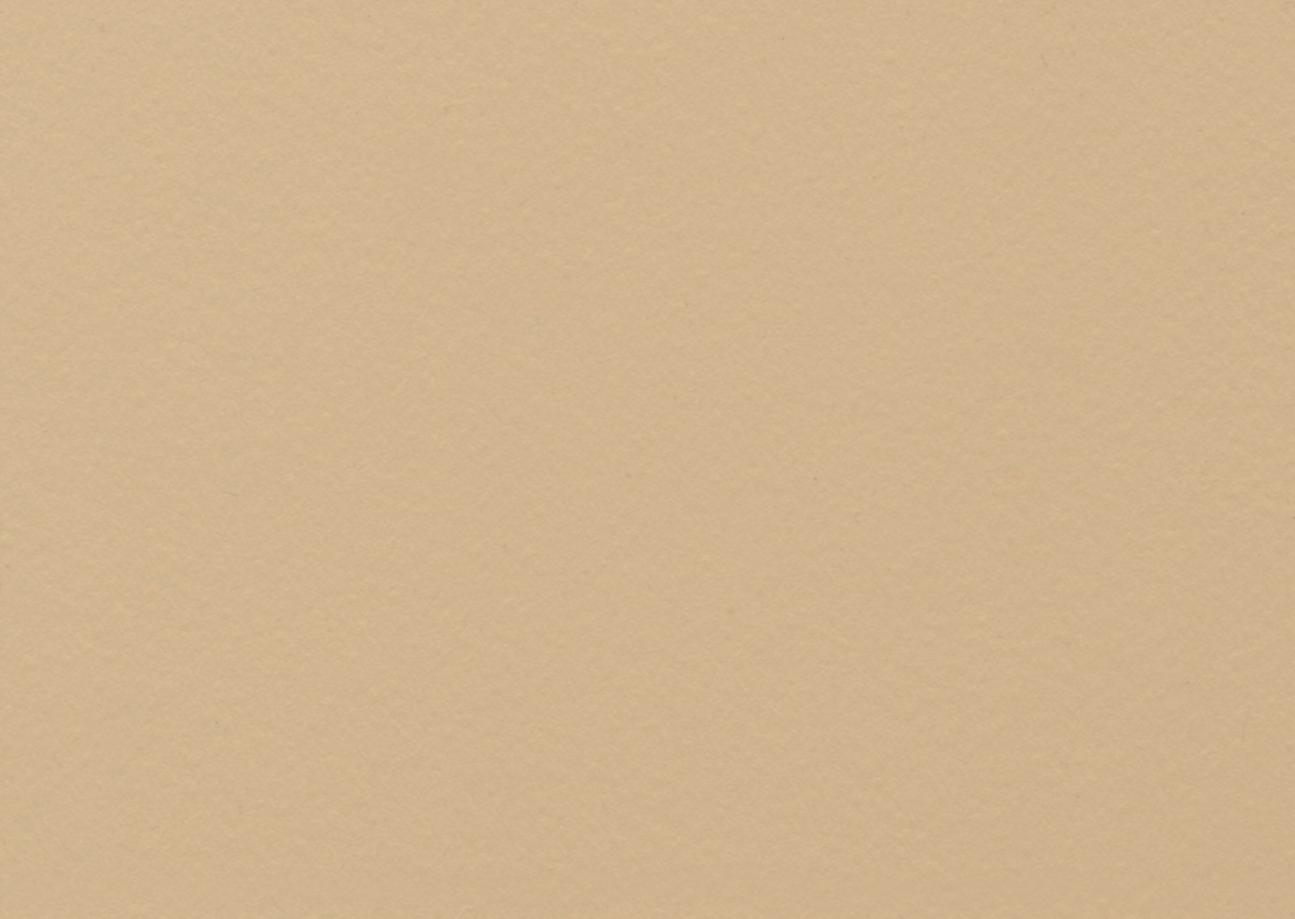
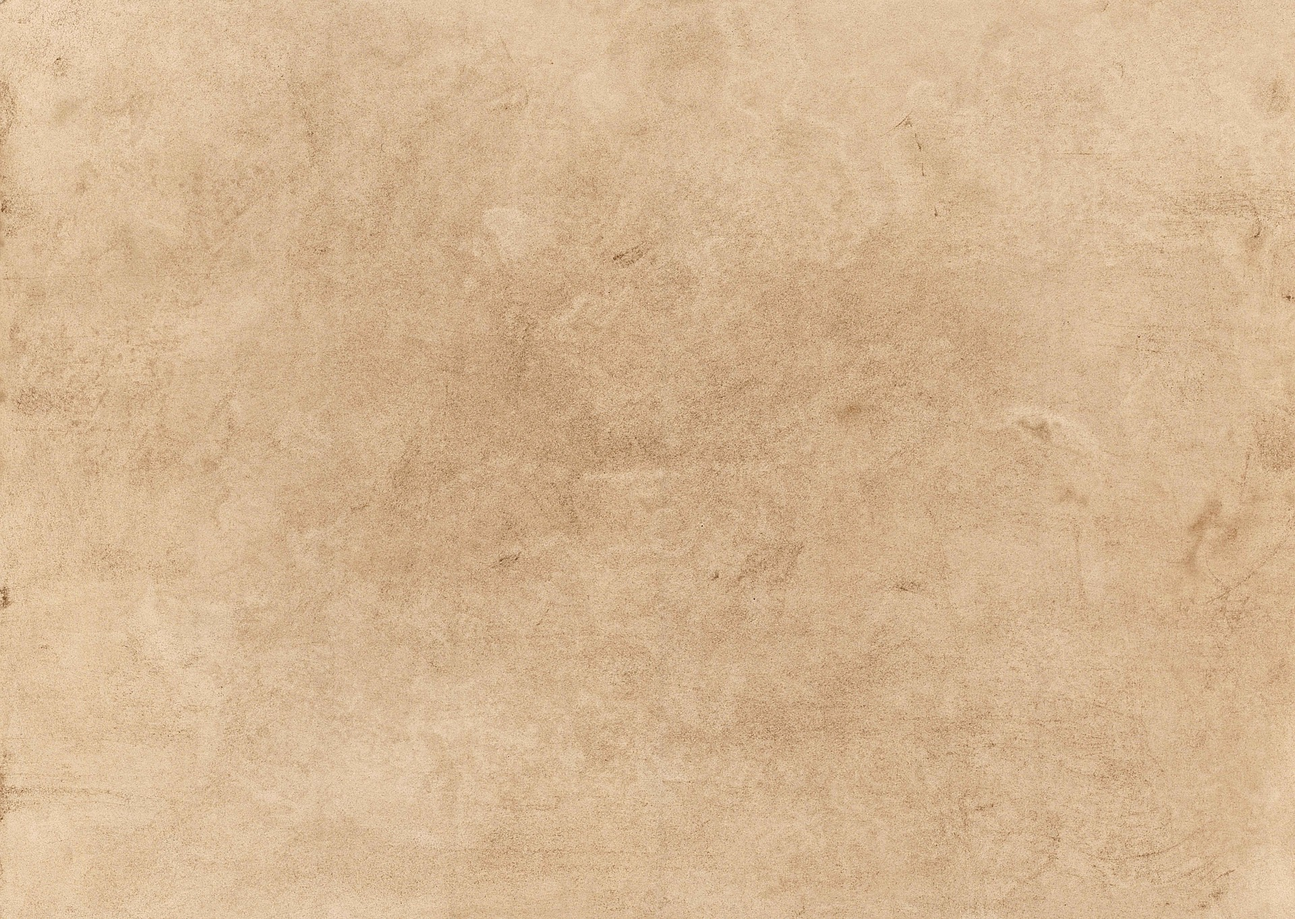
Restore original classic paper with explicit private-use licensing notice

diff --git a/create-wedding-invitation/assets/classic-template/materials.html b/create-wedding-invitation/assets/classic-template/materials.html
@@ -1,1 +1,1 @@
-<!doctype html><html lang="zh-CN"><meta charset="utf-8"><meta name="viewport" content="width=device-width,initial-scale=1"><meta name="robots" content="noindex,nofollow"><title>音乐与素材说明</title><style>body{margin:0;background:#f7efdf;color:#49372c;font:16px/1.8 system-ui,sans-serif}main{max-width:680px;padding:32px 24px;margin:auto}h1{font-size:26px}h2{font-size:20px;margin-top:28px}a{color:#8b3a3a;overflow-wrap:anywhere}small{display:block}pre{white-space:pre-wrap;font:13px/1.7 system-ui}button{font:inherit}</style><main><h1>音乐与素材说明</h1><p>以下是模板默认素材的来源。若请柬已关闭或更换音乐，默认录音可能未使用；替换素材需另行确认授权。</p><h2>默认音乐</h2><p>“Canon in D Major” — Kevin MacLeod（incompetech.com），ISRC USUAN1100301。<br>Licensed under Creative Commons: By Attribution 4.0 License.</p><p><a href="https://incompetech.com/music/royalty-free/index.html?isrc=USUAN1100301">作者原站与曲目</a> · <a href="https://creativecommons.org/licenses/by/4.0/">CC BY 4.0 许可</a></p><p>已移除 ID3 标签与内嵌封面，转为适合手机加载的 96 kbps MP3，并重命名文件。使用、修改或再分发时应保留作者署名、来源及许可链接，修改后说明改动；在符合许可的情况下允许商业使用。</p><h2>纸张与装饰</h2><p><a href="https://ambientcg.com/view?id=Paper001">Paper001</a>、<a href="https://ambientcg.com/view?id=Paper002">Paper002</a> 来自 ambientCG / Lennart Demes，采用 <a href="https://creativecommons.org/publicdomain/zero/1.0/">CC0 1.0</a>。模板对纸纹作暖色叠加和组合处理。信封分享图、玫瑰封蜡线稿、波纹与照片占位由本项目重新绘制，采用 CC0 1.0；其中信封使用上述 CC0 纸纹。</p><p><a href="./assets/NOTICES.txt">完整素材记录</a> · <a href="./assets/licenses/CC-BY-4.0.txt">音乐许可全文</a> · <a href="./assets/licenses/CC0-1.0.txt">CC0 全文</a></p><small>本说明不替使用者取得其照片、个人文案或替换音乐的授权。</small><p><a href="./index.html">返回请柬</a></p></main></html>
+<!doctype html><html lang="zh-CN"><meta charset="utf-8"><meta name="viewport" content="width=device-width,initial-scale=1"><meta name="robots" content="noindex,nofollow"><title>音乐与素材说明</title><style>body{margin:0;background:#f7efdf;color:#49372c;font:16px/1.8 system-ui,sans-serif}main{max-width:680px;padding:32px 24px;margin:auto}h1{font-size:26px}h2{font-size:20px;margin-top:28px}a{color:#8b3a3a;overflow-wrap:anywhere}small{display:block}pre{white-space:pre-wrap;font:13px/1.7 system-ui}button{font:inherit}</style><main><h1>音乐与素材说明</h1><p>以下是模板默认素材的来源。若请柬已关闭或更换音乐，默认录音可能未使用；替换素材需另行确认授权。</p><h2>默认音乐</h2><p>“Canon in D Major” — Kevin MacLeod（incompetech.com），ISRC USUAN1100301。<br>Licensed under Creative Commons: By Attribution 4.0 License.</p><p><a href="https://incompetech.com/music/royalty-free/index.html?isrc=USUAN1100301">作者原站与曲目</a> · <a href="https://creativecommons.org/licenses/by/4.0/">CC BY 4.0 许可</a></p><p>已移除 ID3 标签与内嵌封面，转为适合手机加载的 96 kbps MP3，并重命名文件。使用、修改或再分发时应保留作者署名、来源及许可链接，修改后说明改动；在符合许可的情况下允许商业使用。</p><h2>当前经典版纸纹：授权待确认</h2><p>本版本按用户要求恢复原项目纸纹，不属于 CC0 素材。再分发授权尚未确认，请保持私有；以下 CC0 纸纹是保留的替代方案。</p><h2>替代纸纹与其他装饰</h2><p><a href="https://ambientcg.com/view?id=Paper001">Paper001</a>、<a href="https://ambientcg.com/view?id=Paper002">Paper002</a> 来自 ambientCG / Lennart Demes，采用 <a href="https://creativecommons.org/publicdomain/zero/1.0/">CC0 1.0</a>。模板对纸纹作暖色叠加和组合处理。信封分享图、玫瑰封蜡线稿、波纹与照片占位由本项目重新绘制，采用 CC0 1.0；其中信封使用上述 CC0 纸纹。</p><p><a href="./assets/NOTICES.txt">完整素材记录</a> · <a href="./assets/licenses/CC-BY-4.0.txt">音乐许可全文</a> · <a href="./assets/licenses/CC0-1.0.txt">CC0 全文</a></p><small>本说明不替使用者取得其照片、个人文案或替换音乐的授权。</small><p><a href="./index.html">返回请柬</a></p></main></html>

diff --git a/tools/verify.py b/tools/verify.py
@@ -154,7 +154,10 @@ class ReleaseChecks(unittest.TestCase):
         for skill, template in ((CLASSIC, "classic-template"), (WITNESS, "witness-template")):
             assets = skill / "assets" / template / "assets"
             for name in ("paper-warm.jpg", "canon-in-d-major.mp3"):
-                self.assertEqual(hashlib.sha256((assets / name).read_bytes()).hexdigest(), hashes[name])
[1 lines of base64/hex data omitted]
+                self.assertEqual(hashlib.sha256((assets / name).read_bytes()).hexdigest(), expected)
+            if skill == CLASSIC:
+                self.assertIn("NOT covered by the CC0", (assets / "PAPER_OVERRIDE.txt").read_text())
             for retired in ("classic-bgm.mp3", "vintage-paper-bg.jpg", "背景1.jpg", "water-ripple-bg.png"):
                 self.assertFalse((assets / retired).exists(), retired)
 

diff --git a/create-wedding-invitation/scripts/validate_invitation.py b/create-wedding-invitation/scripts/validate_invitation.py
@@ -103,6 +103,8 @@ def main() -> int:
     if not media.get("share") and not (media.get("ending") or media.get("cover")):
         warnings.append("share image is missing; select an existing cover or ending photo")
     html = (root / "index.html").read_text(encoding="utf-8")
+    if (root / "assets/PAPER_OVERRIDE.txt").exists():
+        warnings.append("original classic paper restored; redistribution permission is unverified; keep private")
     if 'href="./materials.html"' not in html:
         errors.append("missing accessible music/material attribution link")
     notices = (root / "assets/NOTICES.txt").read_text(encoding="utf-8")

diff --git a/create-wedding-invitation/scripts/package_invitation.py b/create-wedding-invitation/scripts/package_invitation.py
@@ -17,7 +17,7 @@ RUNTIME_FILES = {
     "styles.css", "print.css", "composition.css", "gallery-player.css",
     "location-card.css", "mobile-pages.css", "music-control.css",
     "theme-palette.css", "theme-presets.css",
-    "assets/placeholder.svg", "assets/paper-warm.jpg", "materials.html",
+    "assets/placeholder.svg", "assets/paper-warm.jpg", "assets/PAPER_OVERRIDE.txt", "materials.html",
     "assets/NOTICES.txt", "assets/licenses/CC-BY-4.0.txt", "assets/licenses/CC0-1.0.txt",
 }
 IMAGE_SUFFIXES = {".jpg", ".jpeg", ".png", ".webp", ".avif", ".gif"}

diff --git a/ASSET_LICENSES.md b/ASSET_LICENSES.md
@@ -1,10 +1,11 @@
 # 素材许可与替换记录
 
-当前工作树中的默认媒体已完成替换：纸纹为 CC0，音乐为 CC BY 4.0，新绘制的基础装饰为 CC0。各 skill 自带完整素材说明和许可文本，可独立安装，不依赖仓库根目录。代码许可状态另见 [LICENSE.md](LICENSE.md)。
+经典版现按用户要求恢复原项目纸纹，其再分发授权仍待确认，不属于 CC0，须保持私有。见证者纸纹仍为 CC0，音乐为 CC BY 4.0，新绘制的基础装饰为 CC0。各 skill 自带说明和许可，代码许可状态另见 [LICENSE.md](LICENSE.md)。
 
 | 素材 | 当前来源与许可 | 改动及再分发要求 |
 | --- | --- | --- |
-| 两版 `assets/paper-warm.jpg` | ambientCG / Lennart Demes 的 Paper001、Paper002；CC0 1.0 | 用 CSS 混合色图并调为暖纸色；允许免费修改、商用和再分发，不强制署名 |
+| 经典版 `assets/paper-warm.jpg` | 恢复的原经典项目纸纹；再分发授权待确认 | 非 CC0，SHA-256 及例外见 assets/PAPER_OVERRIDE.txt，保持私有 |
+| 见证者 `assets/paper-warm.jpg` 与仓库替代纸纹 | ambientCG / Lennart Demes 的 Paper001、Paper002；CC0 1.0 | CSS 混合色图并调为暖纸色；允许免费修改、商用和再分发，不强制署名 |
 | 两版 `assets/canon-in-d-major.mp3` | Kevin MacLeod 的 Canon in D Major，ISRC USUAN1100301；CC BY 4.0 | 移除 ID3 与内嵌封面，转为适合手机加载的 96 kbps MP3；再分发时保留作者、来源、许可及修改说明 |
 | 见证者 `assets/og-witness-letter.png` | 项目重新绘制的信封、玫瑰线稿、封蜡，加上述 CC0 纸纹 | 新几何绘图采用 CC0 1.0；由 tools/build-assets.mjs 重建 |
 | 两版 `assets/placeholder.svg` | 项目重新绘制的基本几何照片占位 | CC0 1.0；不是实际人物照片 |
@@ -21,7 +22,7 @@
 
 ## 文件与构建
 
-来源下载地址、原始录音校验值和处理命令见 [asset-sources/README.md](asset-sources/README.md)。当前文件 SHA-256 见 [asset-sources/SHA256.json](asset-sources/SHA256.json)。音乐移除了标签与嵌入封面，整曲转为 96 kbps MP3，未截短乐曲。纸纹及信封以浏览器渲染的 CSS／SVG 重建，未沿用旧图片中的像素。
+来源下载地址、原始录音校验值和处理命令见 [asset-sources/README.md](asset-sources/README.md)。可再分发文件的 SHA-256 见 [asset-sources/SHA256.json](asset-sources/SHA256.json)，恢复的经典纸纹校验值另见 assets/PAPER_OVERRIDE.txt。音乐转为 96 kbps MP3，未截短乐曲。见证者纸纹及信封由 CSS／SVG 重建；经典版现使用原项目纸纹。
 
 生成网站含“素材说明”入口，指向 materials.html；发布包必须包含 assets/NOTICES.txt 和 assets/licenses/ 下的许可全文。校验和打包脚本会检查这些文件。替换音乐后，替换曲目的授权与署名需另行处理，默认音乐的许可不能替代它。
 

diff --git a/create-wedding-invitation/SKILL.md b/create-wedding-invitation/SKILL.md
@@ -37,7 +37,7 @@ Create a private, mobile-first static wedding invitation from structured user in
 - Preserve the latest user-corrected spelling of names and banquet rooms everywhere. Ask “请柬上想把谁的名字放在前面？” when display order is unconfirmed; never default to groom-first or bride-first. An explicit user choice takes priority and remains unchanged on subsequent edits. Use `couple.brideFirst` for display order, without swapping identities; check cover, information card, signature, page title and sharing text.
 - Before delivery, follow [references/mobile-quality.md](references/mobile-quality.md) for one-screen layouts, whole-page typography and readable closing signatures, balanced whitespace, gallery placeholders, verified location cards and refresh checks.
 - Reuse the bundled four-page composition layer as the default visual balance; adapt it to content rather than rebuilding each page's spacing independently.
-- Use the warm paper texture for the classic ivory background. Do not add concentric ripples or ripple animations to any classic theme unless the user explicitly requests them.
+- Use the restored original paper texture for classic backgrounds and keep ripples disabled. Its redistribution permission is unverified: preserve assets/PAPER_OVERRIDE.txt and the exception in materials.html/NOTICES.txt; do not describe this background as CC0 or publish it as an openly licensed asset. The licensed CC0 alternative remains in the repository sources.
 - For a single-image invitation containing attendance details and one photo, use the `poster` export in [references/exporting.md](references/exporting.md). Inspect the exported image and display it inline in the response; a cover screenshot alone is not a complete information poster.
 
 - For arbitrary full-page color requests, use the complete palette fields in [references/theme-presets.md](references/theme-presets.md). Use `preset: custom` and regenerate from the source JSON; changing only `accent` on a legacy preset does not recolor its fixed surfaces.

diff --git a/create-wedding-invitation/references/materials.md b/create-wedding-invitation/references/materials.md
@@ -1,5 +1,7 @@
 # Bundled materials and redistribution
 
+Current classic exception: at the user's request, assets/paper-warm.jpg is the original classic-project paper again. Its permission to redistribute is unverified; it is NOT CC0. Preserve assets/PAPER_OVERRIDE.txt and the exception in materials.html/NOTICES.txt. Keep this version private until cleared or replaced. The CC0 papers described below remain alternatives; that paragraph does not license the restored background.
+
 The bundled recording is **Canon in D Major**, Kevin MacLeod (incompetech.com), ISRC USUAN1100301, licensed under [CC BY 4.0](https://creativecommons.org/licenses/by/4.0/). Source: https://incompetech.com/music/royalty-free/index.html?isrc=USUAN1100301 . ID3 tags and embedded artwork were removed, and the recording was transcoded to 96 kbps MP3 for mobile use. Keep the author, track title, source, license link and modification notice when sharing or adapting it. This recording allows commercial use under that license; do not repeat the retired BGM's non-commercial restriction.
 
 The warm paper derives from ambientCG [Paper001](https://ambientcg.com/view?id=Paper001) and [Paper002](https://ambientcg.com/view?id=Paper002), both [CC0 1.0](https://creativecommons.org/publicdomain/zero/1.0/). The original color maps are combined and tinted with CSS before rendering. The new envelope/rose artwork, geometric ripple and photo placeholder are CC0. See the bundled NOTICES.txt for provenance; do not use old textures or audio from a prior local project.

diff --git a/README.md b/README.md
@@ -9,7 +9,7 @@
 
 ## 当前发布状态
 
-这是供审阅的私有仓库。当前默认媒体已替换为可再分发的素材：CC0 纸纹与新绘装饰，以及 Kevin MacLeod 的 CC BY 4.0 卡农录音。生成网页和发布包会保留署名及许可。详见 [素材清单](ASSET_LICENSES.md)。项目代码的最终许可证仍待确认，旧素材仍存在于私有历史；处理这两项后再转公开，见 [LICENSE.md](LICENSE.md)。
+这是供审阅的私有仓库。经典版按用户要求恢复原项目纸纹，其再分发授权待确认，不属于 CC0；见证者仍使用 CC0 纸纹。新绘装饰采用 CC0，Kevin MacLeod 的卡农录音采用 CC BY 4.0。网页和发布包保留署名及纸纹例外。详见 [素材清单](ASSET_LICENSES.md)。公开前仍需处理经典纸纹授权、项目代码许可与旧历史，见 [LICENSE.md](LICENSE.md)。
 
 仓库只包含模板、脚本、说明和虚构示例，不包含任何实际婚礼项目、宾客名单、登录资料或个人部署链接。
 

diff --git a/docs/previews/README.md b/docs/previews/README.md
@@ -6,6 +6,6 @@
 | --- | --- | --- |
 | ![经典版虚构示例](classic.png) | ![中式虚构示例](classic-red.png) | ![见证者虚构示例](witness.png) |
 
-图中纸纹来自 CC0 素材，信封和占位为本项目新绘图形。最新来源及许可见仓库根目录的 ASSET_LICENSES.md。
+经典版现恢复原项目纸纹，再分发授权待确认；见证者纸纹仍来自 CC0。信封和占位为新绘图形。最新来源及许可见根目录 ASSET_LICENSES.md。
 
 复现：安装 Playwright 与 Chromium 后，在仓库根目录运行 `node tools/browser-verify.mjs`，它会生成三张封面预览并验证交互；相册中用新信封图作测试夹具，不将其作为人物照片。也可按根目录 README 生成两个示例，在 8000 和 8001 启动本地服务后运行 `node tools/preview.mjs`。可通过 WEDDING_BROWSER_PATH 指定本机已有浏览器，实际机器路径不应提交。

diff --git a/RELEASE_CHECK.md b/RELEASE_CHECK.md
@@ -30,3 +30,7 @@
 - 更新只包含虚构示例、代码、已记录许可的素材和脱敏预览；不包含实际请柬、照片、宾客或账号资料。
 
 仓库仍为私有，未自动改写既有历史或切换公开。公开前仍需确认项目代码许可证，并处理私有历史中的旧媒体。素材授权清理不等于已完成整仓库的开源授权。
+
+## 恢复经典版原纸纹（2026-11-12）
+
+用户明确选择原纸纹后，经典版恢复原图，波纹保持关闭；见证者素材不变。原图 SHA-256 为 ead90f8b0b8721e8cdbe2692af288ff057f54bc97ed167dec0cd959cd59c906a。新增 PAPER_OVERRIDE.txt 并修正素材说明，明确该纸纹不是 CC0、再分发授权未确认。构建脚本保留此例外，发布 ZIP 携带标记。六组离线检查通过，手机封面重新预览；本地 skill 已同步，仓库保持私有。

diff --git a/LICENSE.md b/LICENSE.md
@@ -2,7 +2,7 @@
 
 项目代码、既有模板与文案的最终开源许可证仍待权利人确认，当前没有对这些内容授予整仓库的 MIT、Apache-2.0 等许可。新媒体素材的明确许可独立于代码许可：
 
-- 纸纹来源及其暖色派生图：CC0 1.0。
+- 见证者纸纹及仓库的可再分发替代纸纹：CC0 1.0。经典版已恢复原项目纸纹，其再分发授权待确认，不属于 CC0。
 - 新绘制的几何信封、玫瑰封蜡图形、照片占位与波纹：CC0 1.0。
 - Canon in D Major 录音：Kevin MacLeod，CC BY 4.0，保留署名、来源、许可与修改说明。
 
